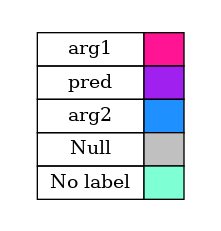
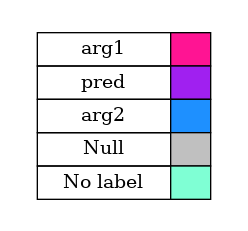
Modify visualisation styles and fix token equality bug

diff --git a/role_pattern_nlp/role_pattern_vis.py b/role_pattern_nlp/role_pattern_vis.py
@@ -36,7 +36,7 @@ DEFAULT_NODE_ATTRS = {
     'shape': 'box',
     'style': 'rounded',
     'penwidth': 2,
-    'margin': 0.2,
+    'margin': 0.25,
 }
 
 LEGEND_ATTRS = {
@@ -66,7 +66,6 @@ def assign_role_colours(graph, token_labels, label2colour):
 def create_legend(label2colour):
     legend = pydot.Dot(graph_type='graph', **DEFAULT_STYLE_ATTRS)
     legend_cluster = pydot.Subgraph(graph_name='cluster_legend', **DEFAULT_STYLE_ATTRS, **LEGEND_ATTRS)
-    # legend_cluster.set_label('Role labels')
     rows = []
     for label, colour in label2colour.items():
         row = '<td>{0}</td><td bgcolor="{1}" width="30"></td>'.format(label, colour)
@@ -74,7 +73,7 @@ def create_legend(label2colour):
         rows.append(row)
     row = '<tr><td>Null</td><td bgcolor="{}" width="30"></td></tr>'.format(NULL_COLOUR)
     rows.append(row)
-    row = '<tr><td width="80">No label</td><td bgcolor="{}" width="30"></td></tr>'.format(DEFAULT_COLOUR)
+    row = '<tr><td width="100">No label</td><td bgcolor="{}" width="30"></td></tr>'.format(DEFAULT_COLOUR)
     rows.append(row)
     table = '<table border="0" cellborder="1" cellspacing="0" cellpadding="4">{}</table>'.format('\n'.join(rows))
     table = '<font face="{0}" size="{1}">{2}</font>'.format(
@@ -149,10 +148,13 @@ def match_to_pydot(match, label2colour={}, legend=False):
             if match_token.i == token.i:
                 colour = NULL_COLOUR
             for label, labelled_tokens in match.items():
-                if token in labelled_tokens:
+                if token.i in [t.i for t in labelled_tokens]:
                     colour = label2colour[label]
         token._.plot['color'] = colour
     graph = visualise_spacy_tree.to_pydot(doc)
+    for edge in graph.get_edges():
+        for k, v in DEFAULT_STYLE_ATTRS.items():
+            edge.set(k, v)
     if legend:
         legend = create_legend(label2colour)
         return graph, legend

diff --git a/setup.py b/setup.py
@@ -8,7 +8,7 @@ with open("requirements.txt") as fh:
 
 setuptools.setup(
     name="role-pattern-nlp",
-    version="0.0.6",
+    version="0.0.7",
     author="Nicholas Morley",
     author_email="nick.morley111@gmail.com",
     description=" Build and match patterns for semantic role labelling",
